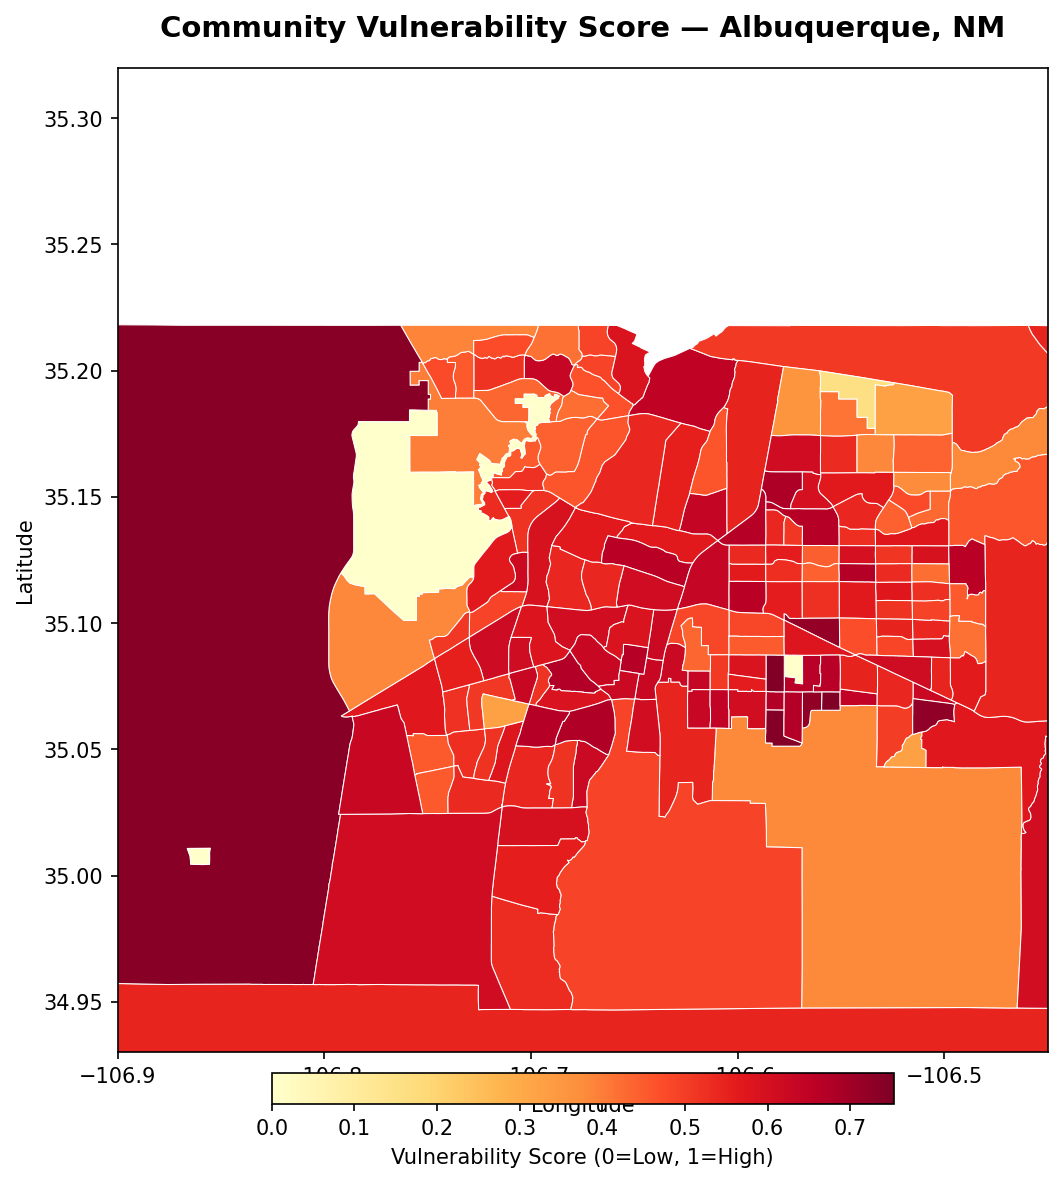
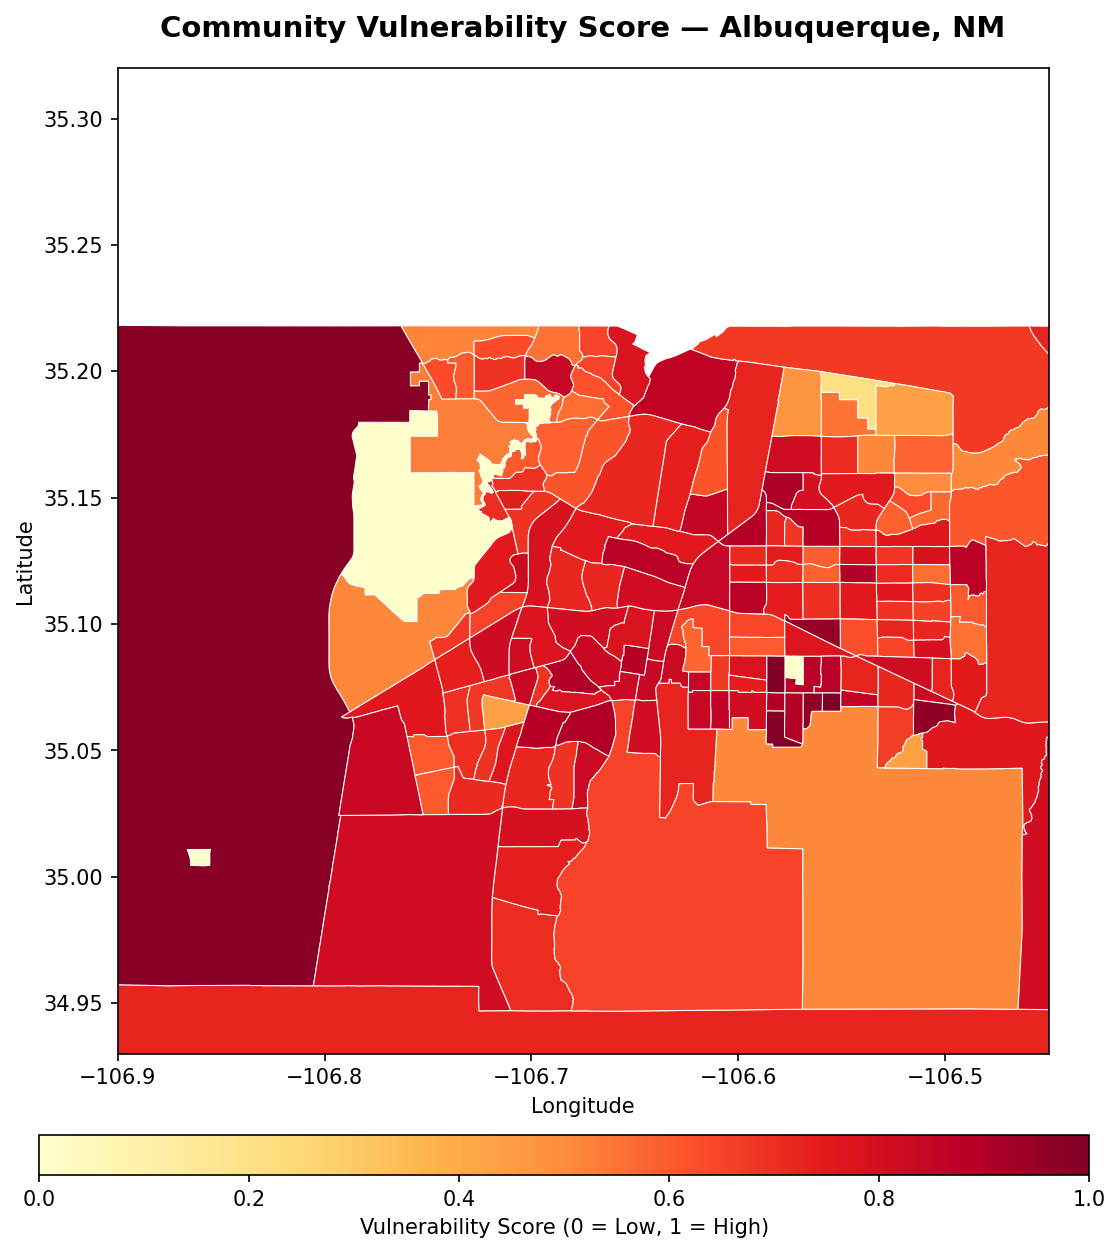
commit

diff --git a/src/export_images.py b/src/export_images.py
@@ -89,23 +89,32 @@ tracts_gdf['GEOID'] = tracts_gdf['GEOID'].astype(str)
 merged             = tracts_gdf.merge(vuln_df[['GEOID', 'vulnerability_score']], on='GEOID', how='left')
 merged['vulnerability_score'] = merged['vulnerability_score'].fillna(0)
 
-fig, ax = plt.subplots(1, 1, figsize=(10, 8))
+fig, ax = plt.subplots(1, 1, figsize=(10, 9))
+fig.subplots_adjust(bottom=0.15)
+
 merged.plot(
     column='vulnerability_score',
     cmap='YlOrRd',
     linewidth=0.5,
     edgecolor='white',
-    legend=True,
-    legend_kwds={'label': 'Vulnerability Score (0=Low, 1=High)', 'orientation': 'horizontal', 'fraction': 0.03, 'pad': 0.02},
+    legend=False,
     ax=ax
 )
+
+# Separate colorbar with enough room below the map
+cax  = fig.add_axes([0.15, 0.06, 0.7, 0.03])
+norm = mcolors.Normalize(vmin=0, vmax=1)
+sm   = plt.cm.ScalarMappable(cmap='YlOrRd', norm=norm)
+sm.set_array([])
+cbar = fig.colorbar(sm, cax=cax, orientation='horizontal')
+cbar.set_label('Vulnerability Score (0 = Low, 1 = High)', fontsize=10)
+
 ax.set_title('Community Vulnerability Score — Albuquerque, NM', fontsize=14, fontweight='bold', pad=15)
 ax.set_xlabel('Longitude')
 ax.set_ylabel('Latitude')
 ax.set_xlim([-106.90, -106.45])
 ax.set_ylim([34.93, 35.32])
 
-plt.tight_layout()
 plt.savefig(os.path.join(assets_dir, 'vulnerability_map.png'), dpi=150, bbox_inches='tight')
 plt.close()
 print("vulnerability_map.png saved")